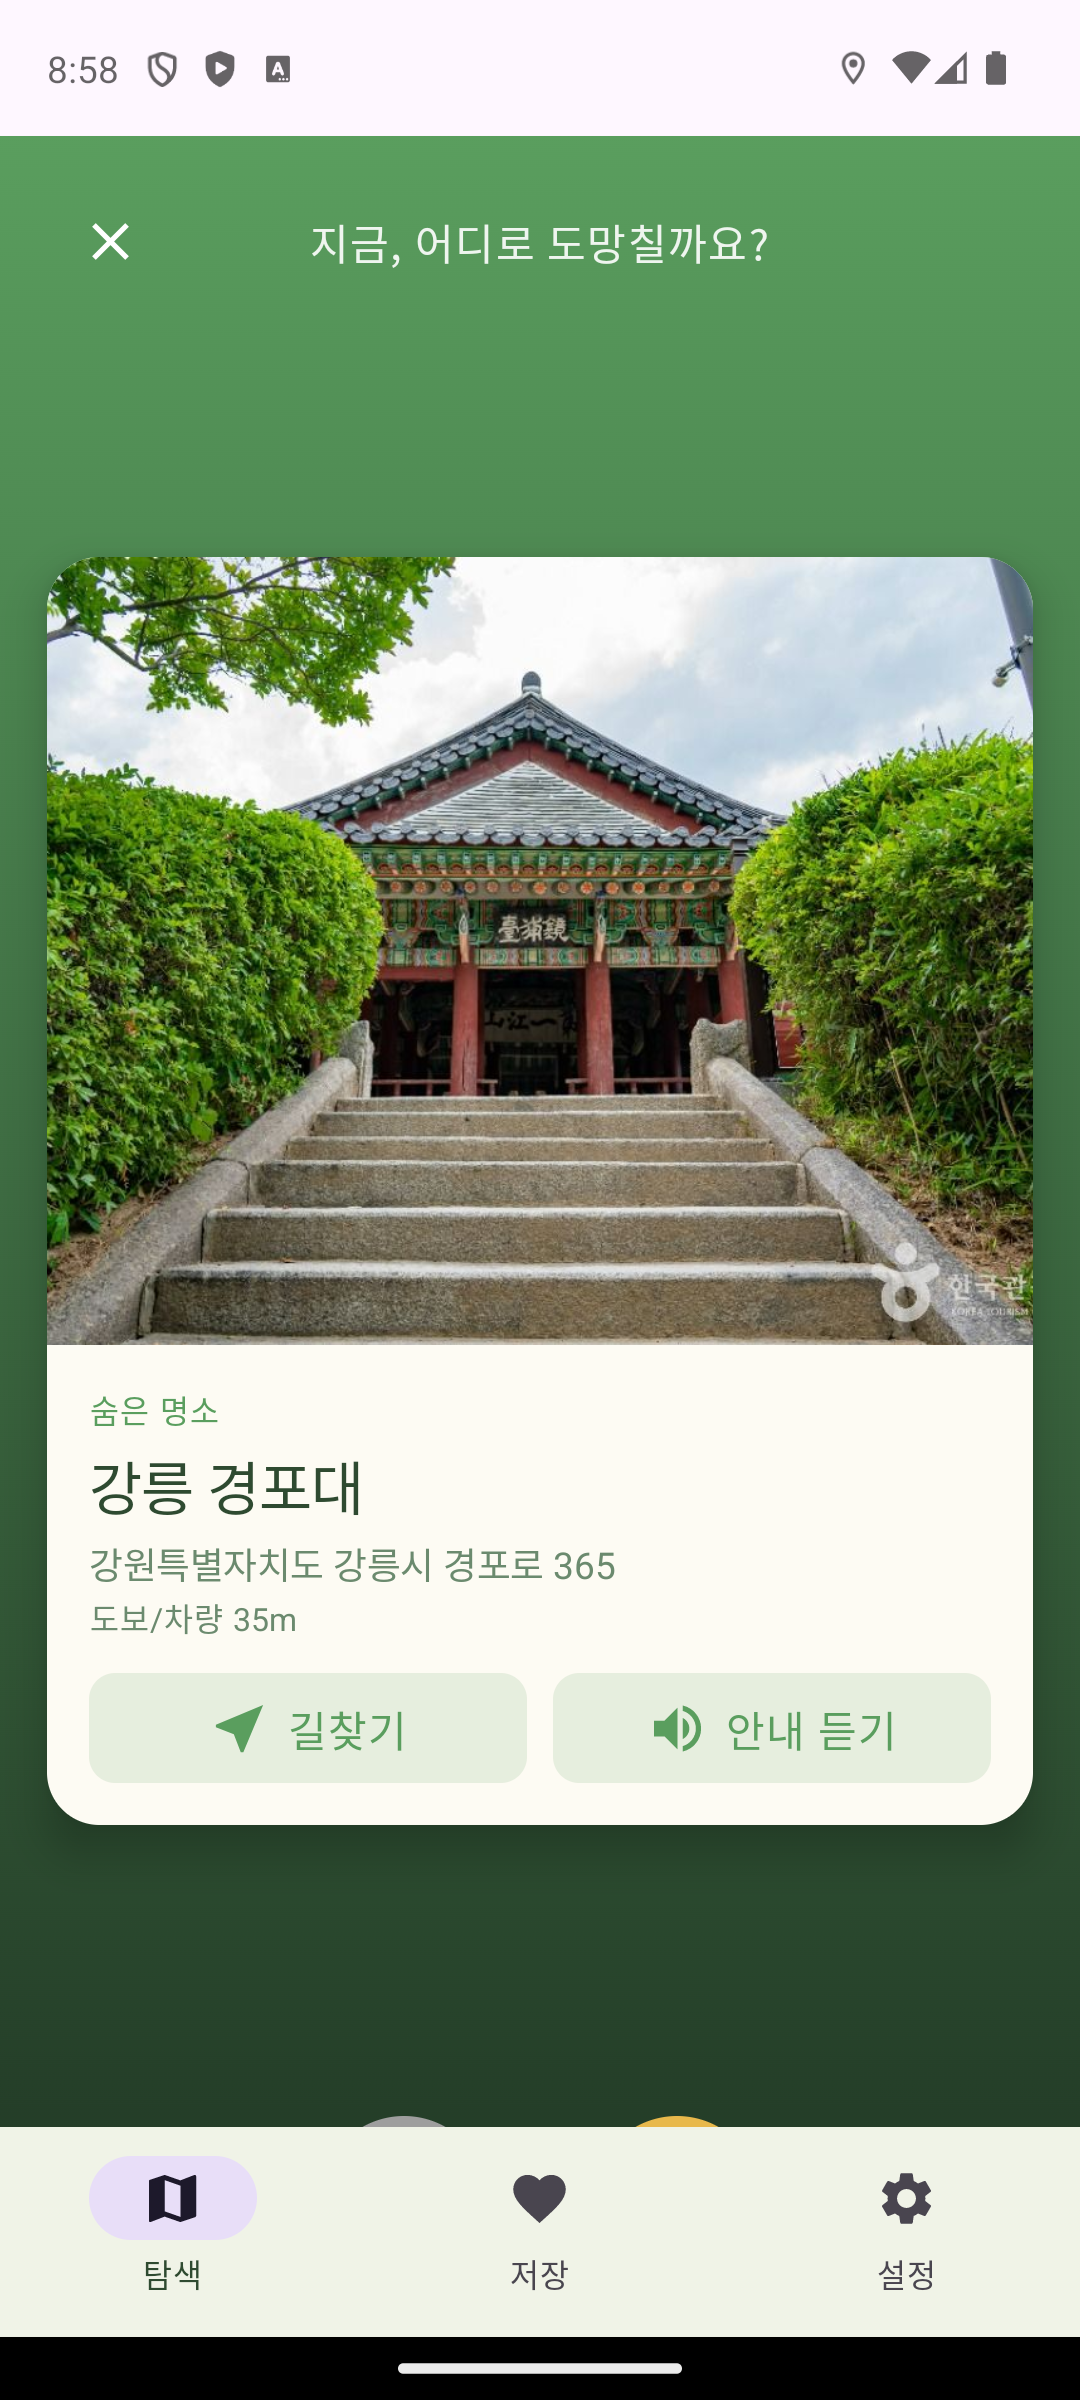
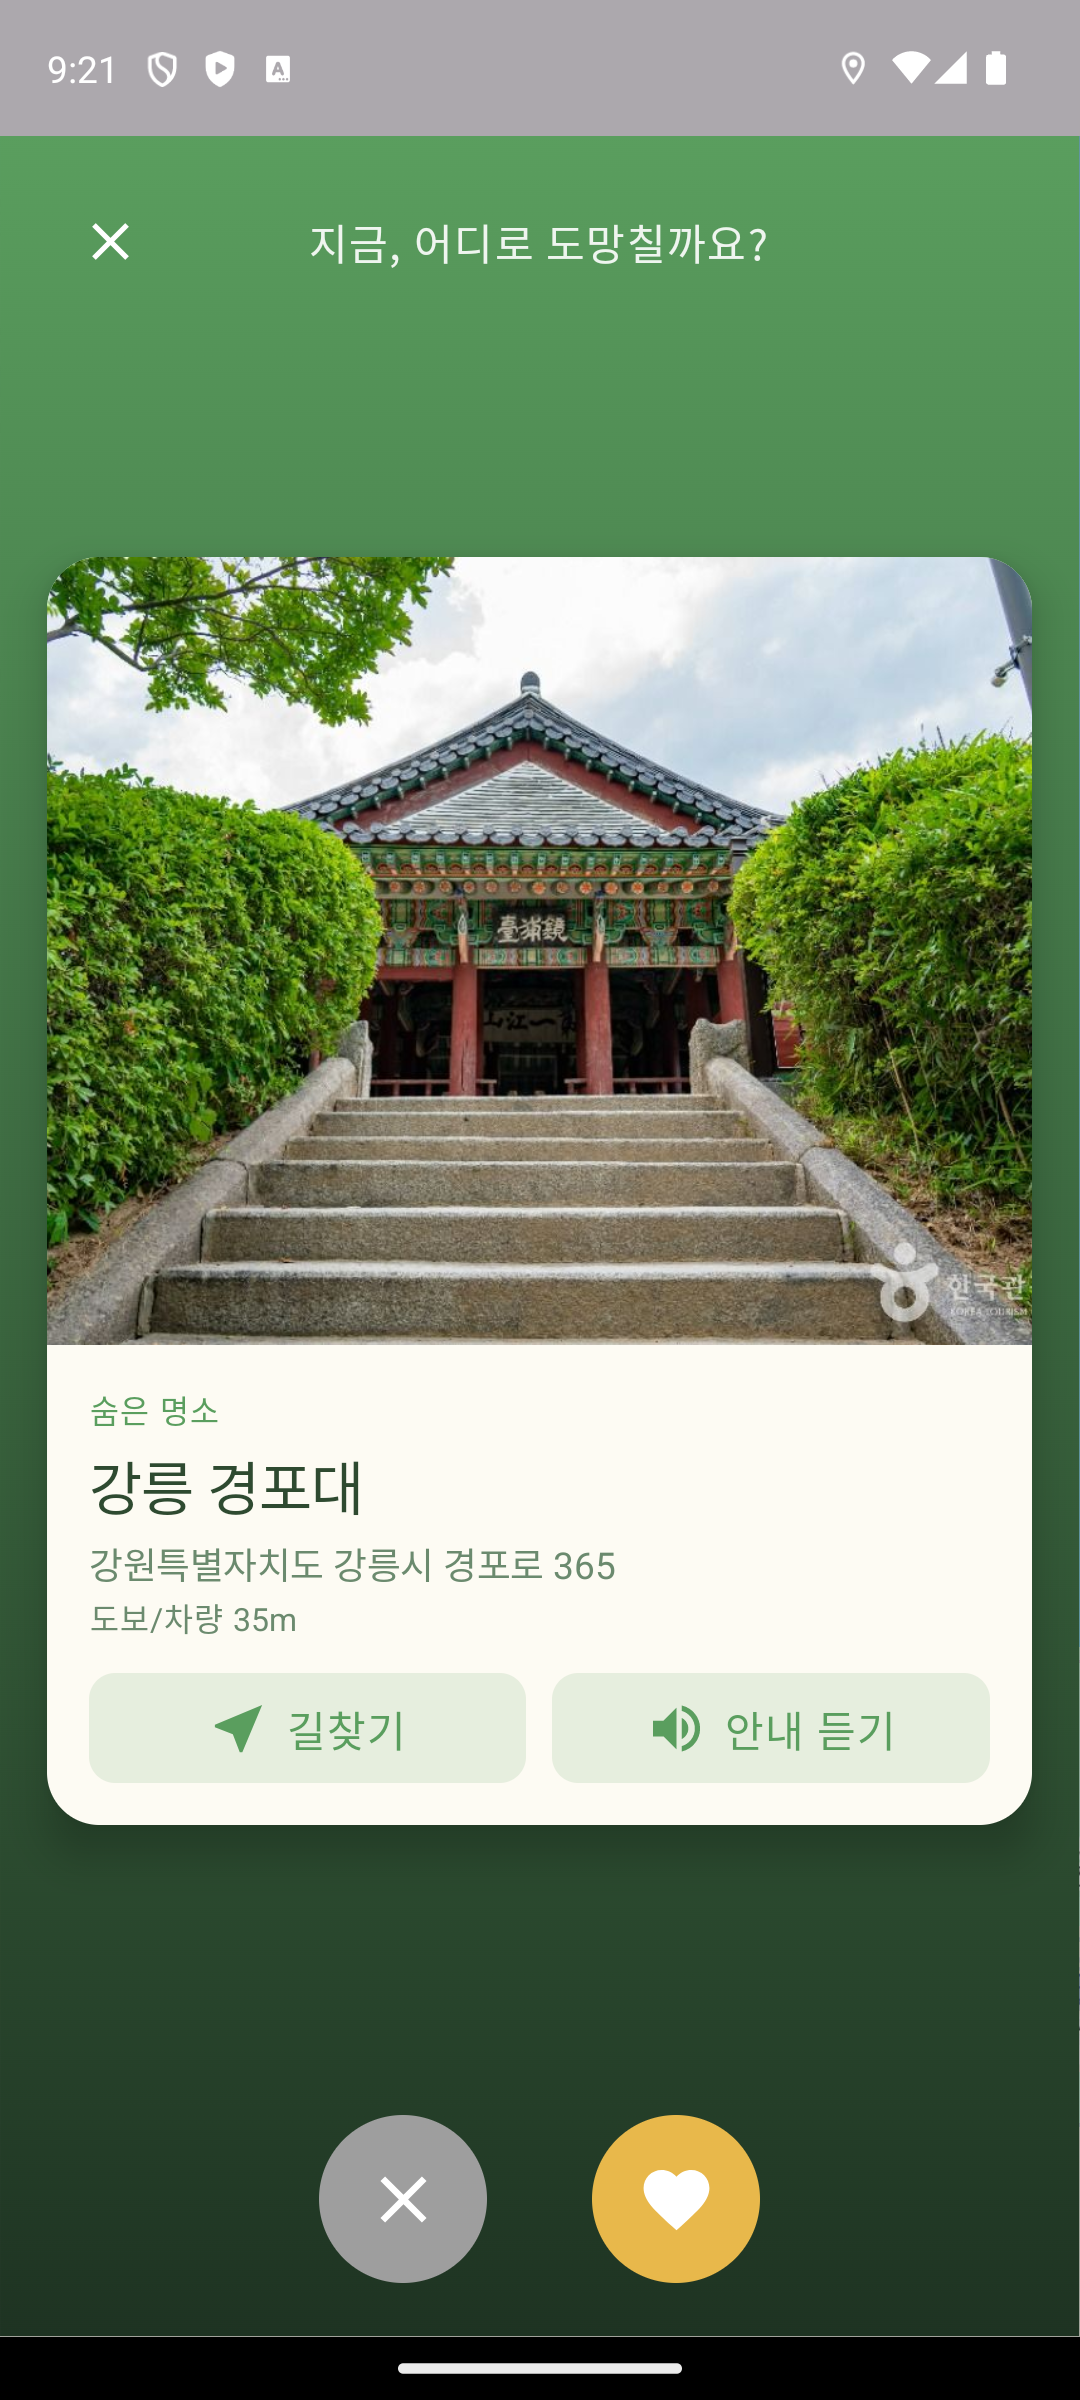
feat(android): 큐레이션 전체화면 Dialog + 피처 그래픽
- fix: 큐레이션 오버레이를 전체화면 Dialog(usePlatformDefaultWidth=false)로
  띄워 하단 내비게이션 바까지 덮음 → 라이크(하트)/패스(X) 원형 버튼이
  가려지지 않고 노출. 스와이프/버튼 양쪽 라이크 동작 검증.
- assets: play_feature_1024x500.png(피처 그래픽) 추가, 03_curation.png를
  버튼 보이는 전체화면 버전으로 교체, play_icon_512 포함.
- docs: 가이드 §4(아이콘·피처 완료 체크), 체크리스트(버튼 노출 항목 추가
  + 가려짐 이슈 해결됨으로 갱신).

diff --git a/android/app/src/main/java/app/stardust/comma/ui/ExploreScreen.kt b/android/app/src/main/java/app/stardust/comma/ui/ExploreScreen.kt
@@ -17,6 +17,8 @@ import androidx.compose.ui.graphics.Color
 import androidx.compose.ui.platform.LocalContext
 import androidx.compose.ui.text.font.FontWeight
 import androidx.compose.ui.unit.dp
+import androidx.compose.ui.window.Dialog
+import androidx.compose.ui.window.DialogProperties
 import androidx.core.content.ContextCompat
 import app.stardust.comma.data.Session
 import app.stardust.comma.data.TourSpot
@@ -141,8 +143,13 @@ fun ExploreScreen(modifier: Modifier = Modifier) {
         }
     }
 
-    // 큐레이션 카드 덱(풀스크린 오버레이)
+    // 큐레이션 카드 덱(진짜 풀스크린 오버레이 — 하단 내비게이션 바까지 덮어 라이크/패스 버튼 노출)
     if (showCuration) {
-        CurationOverlay(spots = deck, onClose = { showCuration = false })
+        Dialog(
+            onDismissRequest = { showCuration = false },
+            properties = DialogProperties(usePlatformDefaultWidth = false),
+        ) {
+            CurationOverlay(spots = deck, onClose = { showCuration = false })
+        }
     }
 }

diff --git a/docs/ANDROID_DEVICE_TEST_CHECKLIST.md b/docs/ANDROID_DEVICE_TEST_CHECKLIST.md
@@ -29,6 +29,7 @@
 - [ ] 버튼 탭 → 풀스크린 카드 오버레이 등장("지금, 어디로 도망칠까요?")
 - [ ] 카드에 사진·명소명·주소·거리·"숨은 명소" 배지 표시
 - [ ] 카드 **오른쪽 스와이프 = 라이크**, 왼쪽 = 패스 → 다음 카드로 진행
+- [ ] 카드 하단 **라이크(하트)/패스(X) 원형 버튼**이 보이고 탭으로도 동작
 - [ ] **길찾기** 탭 → 지도 앱(geo:)으로 연결
 - [ ] **안내 듣기** 탭 → 한국어 TTS 음성 재생
 - [ ] **라이크한 카드 직후 바로 닫아도** 저장 목록에 남음 *(스코프 유실 버그 수정 검증)*
@@ -60,9 +61,10 @@
 ---
 
 ## 알려진 개선 후보 (출시 차단 아님)
-- 큐레이션 카드 하단의 **라이크/패스 원형 버튼**이 하단 내비게이션 바에 가려질 수 있음
-  → 카드 스와이프로 동일 동작 가능. 추후 오버레이를 내비게이션 바 위 전체화면으로 올리면 해소.
 - 마커가 기본 빨간 핀(iOS는 점 스타일) — 통일은 추후 폴리시.
+
+> ✅ 해결됨: 큐레이션 카드 하단 라이크/패스 버튼이 하단 내비게이션 바에 가려지던 문제
+> → 큐레이션을 전체화면 Dialog로 띄워 내비게이션 바 위를 덮도록 수정.
 
 ---
 

diff --git a/docs/PLAY_STORE_GUIDE.md b/docs/PLAY_STORE_GUIDE.md
@@ -113,9 +113,9 @@ Play용 자산은 별도 규격이 필요:
 sips -z 512 512 android/app/src/main/res/mipmap-xxxhdpi/ic_launcher.png \
      --out android/screenshots/play_icon_512.png
 ```
-- [ ] **512×512 아이콘** 준비
-- [ ] **1024×500 피처 그래픽**: 초원 그라데이션 배경 + "쉼표 / 잠시 멈추어, 숨을 고르다" 워드마크
-      (Figma/Canva 등으로 제작 권장. 필요하면 생성 스크립트를 만들어 드릴 수 있어요.)
+- [x] **512×512 아이콘** → `android/screenshots/play_icon_512.png`
+- [x] **1024×500 피처 그래픽** → `android/screenshots/play_feature_1024x500.png`
+      (초원 그라데이션 + "쉼 표 / 잠시 멈추어, 숨을 고르다". 재생성: `swift /tmp/feature_graphic.swift <out.png>`)
 
 ---
 